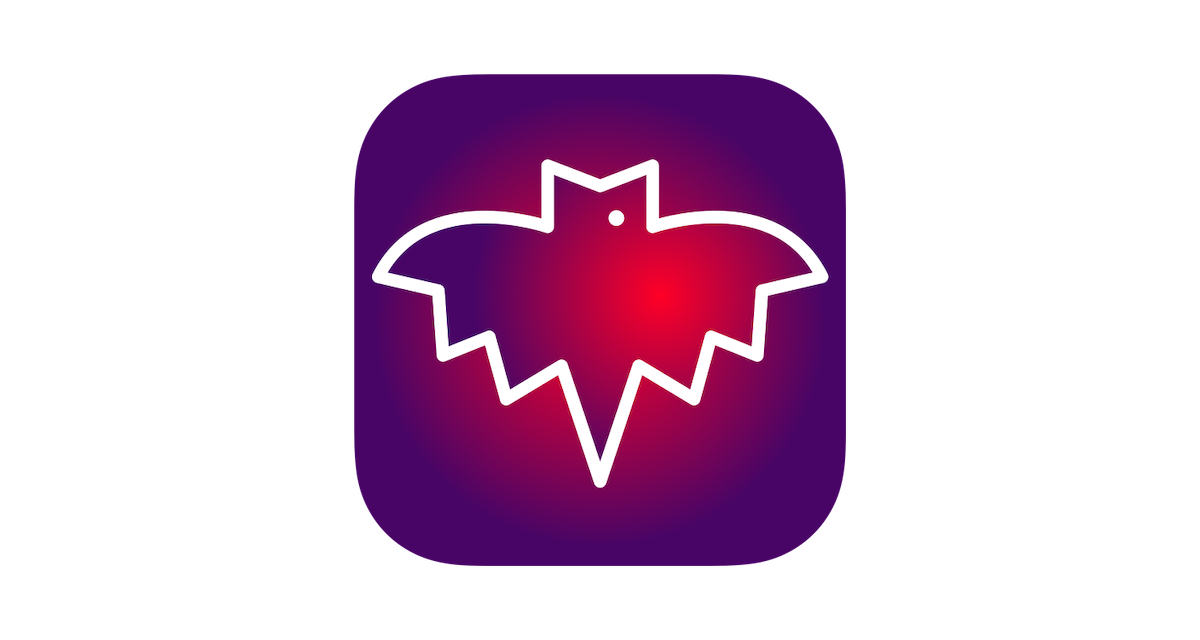
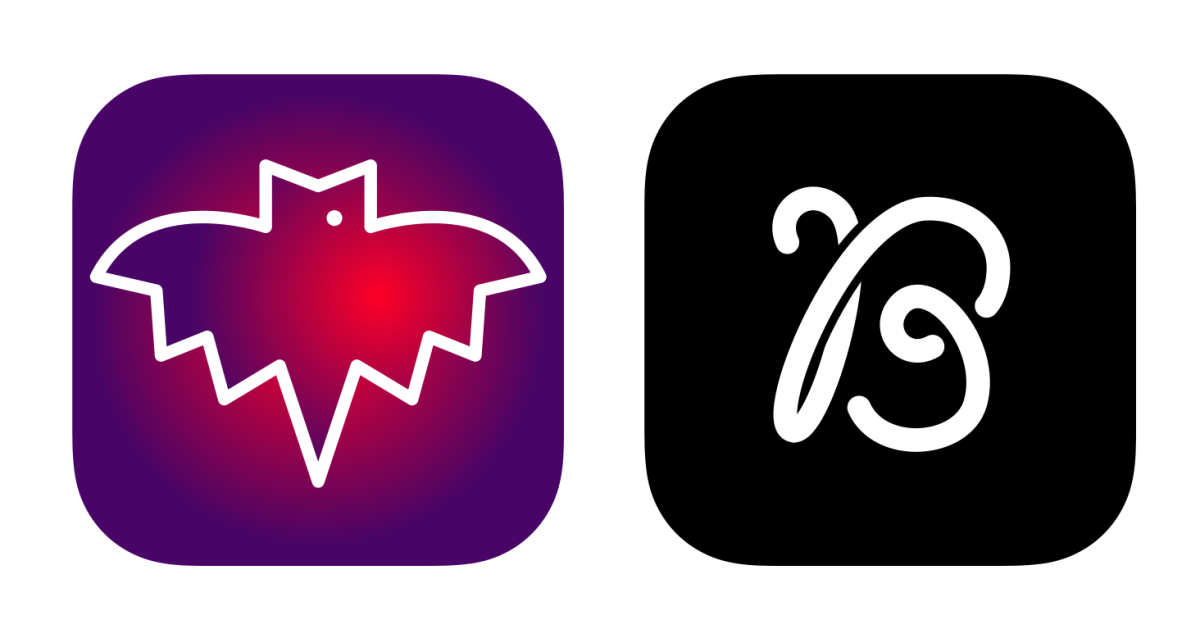
Update article

diff --git a/content/batty.ja.md b/content/batty.ja.md
@@ -94,7 +94,7 @@ Battyはbattery（バッテリー）とかけた駄洒落だ。
 
 なので試しに直線にしてみたら意外と良い感じな気がしたので採用し、両目が開いているとつまらない気がしたので片目を閉じさせてみたら何だか良い感じになったので採用した。
 
-Battyは国外にも出す予定だが、最近の海外のSNSアプリは黒か紫色が多い印象がある（詳しく調べてはいない）ので、コウモリの連想から紫を基調にした。  
+Battyは海外にも出す予定だが、最近の海外のSNSアプリは黒か紫色が多い印象がある（詳しく調べてはいない）ので、コウモリの連想から紫を基調にした。  
 
 最後に「グラデーションを重ねると何か良い感じになる」というデザインの裏技を使う事に決めた。  
 背景にグラデーションを施し、コウモリにも同じ色のグラデーションをかける。  
@@ -107,3 +107,15 @@ Battyは国外にも出す予定だが、最近の海外のSNSアプリは黒か
 {{< figure src="/images/batty/compare.png" title="" >}}
 
 左はクリオネっぽい。
+
+# アイコンの作り直し
+
+{{< figure src="/images/batty/new_icon.png" title="" >}}
+
+元々海外向けに考えたアイコンだったが、日本国内用のアイコンを別に作ろうと思い、2023年5月16日に新しいアイコンに変更した。
+
+その後、特に狙った訳では無いが、BeReal.が人気を博したり、Meta社のThreadsが登場したり、TwitterがXに名称を変えたりと、黒背景に白字というデザインが一気に増えたので、こちらのデザインに統一する事にした。
+
+{{< figure src="/images/batty/new_logo.png" title="" >}}
+
+同年の8月22日にロゴを作った。

diff --git a/content/2020.ja.md b/content/2020.ja.md
@@ -17,7 +17,8 @@ COVID-19。
 # アプリ調査
 国内のiOSアプリをひたすらインストールしていると去年書いたが、無事noteに記事を公開する事が出来た。
 
-{{< link title="https://note.com/hyshu" url="https://note.com/hyshu" >}}
+{{< link title="https://note.com/hyshu" url="https://note.com/hyshu" >}}  
+(追記：2022年にZennへ移行した折、情報が古くなっていたので削除した）
 
 とはいえ3000本のアプリをひたすら起動し続ける作業はあまりにも面倒で、結局4月までかかった。
 

diff --git a/content/aituber.ja.md b/content/aituber.ja.md
@@ -136,6 +136,8 @@ Live2Dモデルを作っている最中に鈴の音の擬音を「ting‐a‐lin
 
 # ロゴ
 
+{{< figure src="/images/aituber/logo.png" title="" >}}
+
 "AITuber Project"という名称が長いので、縦長のフォントの{{< link title="FONTOPO" url="https://fontopo.com/?p=70" >}}を使用している。
 
 視認性が高く、遊び心がありつつもポップすぎない素晴らしいフォントだと思う。
